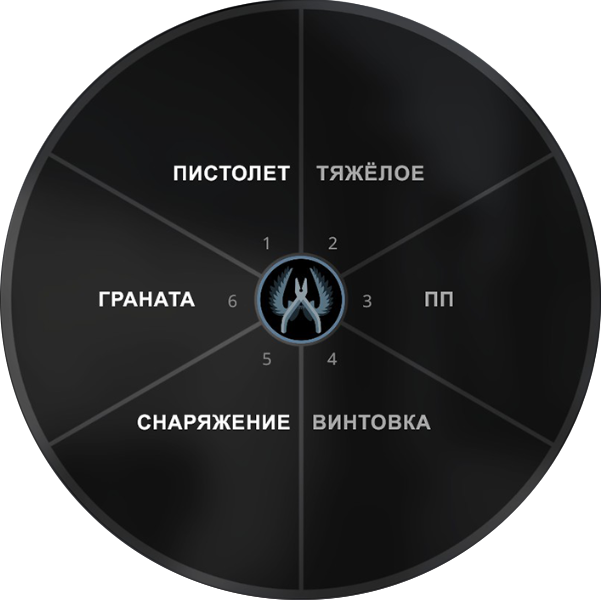
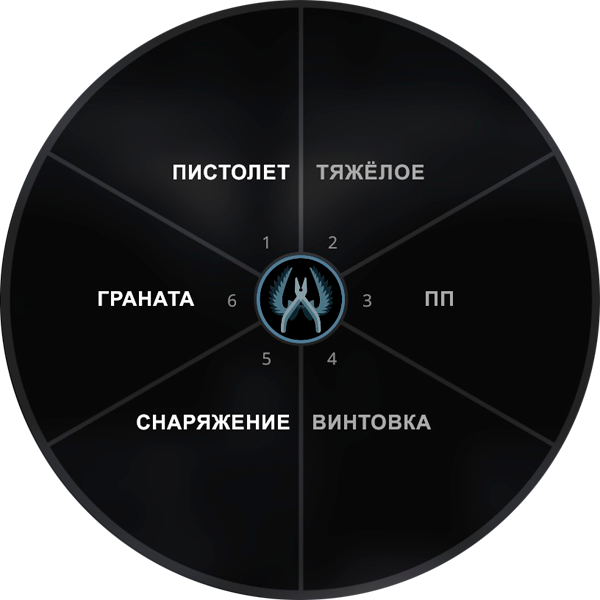
+wheel

diff --git a/Gun.html b/Gun.html
@@ -57,9 +57,9 @@
               <div id="all-layer" class="layer">
                 <img src="media/all.png" class="map" usemap="#image-map">
                 <map name="image-map">
-                  <area data-l="a1" coords="302, 0, 302, 254, 295, 254, 288, 256, 282, 259, 276, 262, 271, 266, 267, 271, 264, 276, 43, 149, 51, 138, 59, 127, 67, 116, 76, 105, 84, 96, 94, 87, 104, 77, 113, 68, 122, 60, 132, 53, 143, 46, 154, 39, 164, 33, 175, 28, 186, 23, 197, 19, 206, 15, 217, 12, 227, 9, 237, 7, 248, 5, 259, 3, 270, 2, 280, 1" shape="poly">
+                  <area data-l="a1" coords="41, 149, 261, 276, 265, 270, 270, 264, 276, 260, 283, 257, 291, 254, 301, 254, 301, 0, 282, 1, 264, 3, 247, 5, 229, 9, 212, 14, 185, 23, 167, 31, 153, 38, 137, 48, 123, 58, 110, 68, 99, 77, 87, 89, 76, 100, 66, 112, 56, 125, 49, 136" shape="poly">
                   <area data-l="a2" coords="301, 0, 301, 0, 317, 0, 330, 1, 341, 3, 353, 4, 362, 6, 372, 8, 381, 11, 390, 13, 403, 18, 415, 22, 430, 29, 444, 36, 454, 42, 464, 48, 473, 54, 481, 60, 490, 67, 498, 74, 506, 82, 513, 89, 521, 97, 528, 105, 534, 112, 541, 121, 547, 129, 553, 138, 557, 144, 560, 150, 340, 277, 335, 269, 328, 264, 320, 259, 313, 256, 306, 255, 300, 254, 302, 1" shape="poly">
-                  <area data-l="a3" coords="561, 150, 340, 277, 344, 284, 346, 291, 347, 298, 346, 305, 345, 311, 343, 316, 339, 322, 561, 449, 566, 437, 572, 425, 578, 412, 583, 399, 587, 387, 590, 375, 593, 361, 596, 348, 598, 335, 599, 321, 600, 308, 600, 293, 599, 279, 598, 264, 596, 250, 593, 235, 590, 222, 586, 209, 582, 197, 578, 185, 573, 173, 567, 162" shape="poly">
+                  <area data-l="a3" coords="340, 276, 559, 150, 570, 169, 577, 185, 583, 201, 589, 221, 593, 239, 596, 259, 598, 281, 599, 303, 598, 324, 595, 352, 590, 375, 584, 394, 576, 417, 567, 435, 559, 449, 340, 321, 345, 312, 346, 302, 346, 293, 345, 284" shape="poly">
                   <area data-l="a4" coords="301, 342, 308, 342, 315, 340, 322, 337, 328, 333, 333, 328, 337, 323, 340, 318, 560, 449, 552, 461, 548, 468, 542, 476, 536, 484, 530, 491, 523, 499, 516, 507, 509, 514, 501, 521, 494, 527, 486, 534, 478, 540, 470, 546, 462, 551, 454, 556, 444, 561, 435, 565, 425, 570, 415, 575, 405, 579, 395, 582, 383, 586, 371, 589, 361, 591, 350, 593, 338, 595, 326, 596, 318, 597, 308, 597, 301, 598" shape="poly">
                   <area data-l="a5" coords="264, 320, 267, 325, 272, 330, 278, 335, 284, 338, 291, 341, 297, 342, 302, 343, 302, 597, 292, 597, 280, 596, 267, 595, 255, 594, 241, 591, 227, 588, 215, 585, 201, 580, 189, 575, 179, 571, 169, 566, 157, 560, 145, 553, 135, 546, 125, 540, 116, 533, 107, 525, 99, 518, 91, 511, 83, 502, 76, 494, 70, 487, 64, 479, 57, 470, 52, 462, 47, 454, 43, 448" shape="poly">
                   <area data-l="a6" coords="43, 148, 263, 277, 260, 284, 257, 291, 257, 298, 258, 306, 260, 313, 262, 318, 263, 322, 43, 449, 38, 439, 32, 426, 26, 414, 22, 403, 18, 391, 14, 378, 10, 364, 8, 351, 6, 338, 4, 325, 3, 314, 3, 302, 3, 290, 3, 279, 4, 268, 6, 257, 7, 248, 8, 239, 10, 231, 12, 223, 14, 215, 17, 208, 20, 200, 23, 191, 26, 183, 29, 176, 33, 169, 37, 161, 41, 154" shape="poly">
@@ -68,85 +68,84 @@
 
               <!--  -->
               <div id="pistol-layer" class="layer" style="display: none;">
-                <img src="media/pistol.png" class="map" usemap="#pistol-map">
+                <img src="media/pistol_ct.png" class="map" usemap="#pistol-map">
                 <map name="pistol-map">
                   <area data-l="p0" shape="circle" coords="301, 300, 45" />
-                  <area data-l="p1" coords="302, 0, 302, 254, 295, 254, 288, 256, 282, 259, 276, 262, 271, 266, 267, 271, 264, 276, 43, 149, 51, 138, 59, 127, 67, 116, 76, 105, 84, 96, 94, 87, 104, 77, 113, 68, 122, 60, 132, 53, 143, 46, 154, 39, 164, 33, 175, 28, 186, 23, 197, 19, 206, 15, 217, 12, 227, 9, 237, 7, 248, 5, 259, 3, 270, 2, 280, 1" shape="poly">
-                  <area data-l="p2" coords="302, 1, 315, 1, 328, 2, 340, 3, 352, 5, 364, 7, 378, 11, 395, 16, 408, 20, 424, 27, 440, 35, 453, 43, 466, 52, 480, 63, 496, 75, 511, 88, 524, 102, 535, 115, 543, 125, 550, 135, 556, 144, 350, 267, 344, 259, 337, 252, 329, 246, 319, 243, 310, 240, 303, 240, 301, 240" shape="poly">
-                  <area data-l="p3" coords="557, 148, 562, 157, 568, 168, 574, 181, 580, 197, 587, 219, 591, 238, 594, 258, 596, 278, 597, 300, 597, 321, 595, 341, 592, 362, 588, 379, 581, 398, 575, 415, 568, 429, 563, 438, 558, 448, 351, 327, 356, 317, 358, 307, 359, 296, 357, 284, 353, 275, 351, 270" shape="poly">
-                  <area data-l="p4" coords="557, 450, 547, 467, 534, 485, 519, 501, 505, 516, 488, 532, 469, 546, 446, 560, 423, 572, 397, 582, 369, 589, 343, 595, 321, 597, 299, 598, 301, 356, 313, 355, 323, 352, 329, 347, 338, 342, 344, 336, 349, 329" shape="poly">
-                  <area data-l="p5" coords="292, 596, 265, 595, 237, 590, 205, 582, 171, 568, 143, 552, 114, 531, 86, 506, 64, 479, 45, 453, 250, 329, 256, 337, 263, 344, 273, 350, 281, 353, 288, 356, 297, 357" shape="poly">
-                  <area data-l="p6" coords="41, 445, 28, 422, 17, 392, 8, 358, 3, 322, 2, 284, 6, 245, 14, 214, 23, 191, 31, 172, 42, 150, 249, 271, 245, 281, 244, 292, 244, 306, 246, 314, 250, 325" shape="poly">
+                  <area data-l="p1" coords="41, 149, 261, 276, 265, 270, 270, 264, 276, 260, 283, 257, 291, 254, 301, 254, 301, 0, 282, 1, 264, 3, 247, 5, 229, 9, 212, 14, 185, 23, 167, 31, 153, 38, 137, 48, 123, 58, 110, 68, 99, 77, 87, 89, 76, 100, 66, 112, 56, 125, 49, 136" shape="poly">
+                  <area data-l="p2" coords="301, 0, 301, 0, 317, 0, 330, 1, 341, 3, 353, 4, 362, 6, 372, 8, 381, 11, 390, 13, 403, 18, 415, 22, 430, 29, 444, 36, 454, 42, 464, 48, 473, 54, 481, 60, 490, 67, 498, 74, 506, 82, 513, 89, 521, 97, 528, 105, 534, 112, 541, 121, 547, 129, 553, 138, 557, 144, 560, 150, 340, 277, 335, 269, 328, 264, 320, 259, 313, 256, 306, 255, 300, 254, 302, 1" shape="poly">
+                  <area data-l="p3" coords="340, 276, 559, 150, 570, 169, 577, 185, 583, 201, 589, 221, 593, 239, 596, 259, 598, 281, 599, 303, 598, 324, 595, 352, 590, 375, 584, 394, 576, 417, 567, 435, 559, 449, 340, 321, 345, 312, 346, 302, 346, 293, 345, 284" shape="poly">
+                  <area data-l="p4" coords="301, 342, 308, 342, 315, 340, 322, 337, 328, 333, 333, 328, 337, 323, 340, 318, 560, 449, 552, 461, 548, 468, 542, 476, 536, 484, 530, 491, 523, 499, 516, 507, 509, 514, 501, 521, 494, 527, 486, 534, 478, 540, 470, 546, 462, 551, 454, 556, 444, 561, 435, 565, 425, 570, 415, 575, 405, 579, 395, 582, 383, 586, 371, 589, 361, 591, 350, 593, 338, 595, 326, 596, 318, 597, 308, 597, 301, 598" shape="poly">
+                  <area data-l="p5" coords="264, 320, 267, 325, 272, 330, 278, 335, 284, 338, 291, 341, 297, 342, 302, 343, 302, 597, 292, 597, 280, 596, 267, 595, 255, 594, 241, 591, 227, 588, 215, 585, 201, 580, 189, 575, 179, 571, 169, 566, 157, 560, 145, 553, 135, 546, 125, 540, 116, 533, 107, 525, 99, 518, 91, 511, 83, 502, 76, 494, 70, 487, 64, 479, 57, 470, 52, 462, 47, 454, 43, 448" shape="poly">
+                  <area data-l="p6" coords="43, 148, 263, 277, 260, 284, 257, 291, 257, 298, 258, 306, 260, 313, 262, 318, 263, 322, 43, 449, 38, 439, 32, 426, 26, 414, 22, 403, 18, 391, 14, 378, 10, 364, 8, 351, 6, 338, 4, 325, 3, 314, 3, 302, 3, 290, 3, 279, 4, 268, 6, 257, 7, 248, 8, 239, 10, 231, 12, 223, 14, 215, 17, 208, 20, 200, 23, 191, 26, 183, 29, 176, 33, 169, 37, 161, 41, 154" shape="poly">
                 </map>
               </div>
 
               <!--  -->
               <div id="hard-layer" class="layer" style="display: none;">
-                <img src="media/hard.png" class="map" usemap="#hard-map">
+                <img src="media/shotgun_ct.png" class="map" usemap="#hard-map">
                 <map name="hard-map">
                   <area data-l="h0" shape="circle" coords="301, 300, 45" />
-                  <area data-l="h1" coords="43, 147, 52, 134, 60, 122, 69, 112, 77, 102, 86, 93, 94, 84, 104, 75, 114, 67, 124, 58, 135, 51, 146, 43, 157, 37, 168, 32, 180, 26, 191, 21, 202, 17, 214, 13, 227, 9, 242, 5, 255, 3, 269, 2, 279, 1, 291, 1, 299, 2, 299, 240, 294, 241, 288, 242, 280, 244, 273, 248, 266, 252, 261, 257, 256, 262, 252, 268" shape="poly">
-                  <area data-l="h2" coords="302, 1, 315, 1, 328, 2, 340, 3, 352, 5, 364, 7, 378, 11, 395, 16, 408, 20, 424, 27, 440, 35, 453, 43, 466, 52, 480, 63, 496, 75, 511, 88, 524, 102, 535, 115, 543, 125, 550, 135, 556, 144, 350, 267, 344, 259, 337, 252, 329, 246, 319, 243, 310, 240, 303, 240, 301, 240" shape="poly">
-                  <area data-l="h3" coords="557, 148, 562, 157, 568, 168, 574, 181, 580, 197, 587, 219, 591, 238, 594, 258, 596, 278, 597, 300, 597, 321, 595, 341, 592, 362, 588, 379, 581, 398, 575, 415, 568, 429, 563, 438, 558, 448, 351, 327, 356, 317, 358, 307, 359, 296, 357, 284, 353, 275, 351, 270" shape="poly">
-                  <area data-l="h4" coords="557, 450, 547, 467, 534, 485, 519, 501, 505, 516, 488, 532, 469, 546, 446, 560, 423, 572, 397, 582, 369, 589, 343, 595, 321, 597, 299, 598, 301, 356, 313, 355, 323, 352, 329, 347, 338, 342, 344, 336, 349, 329" shape="poly">
-                  <area data-l="h5" coords="292, 596, 265, 595, 237, 590, 205, 582, 171, 568, 143, 552, 114, 531, 86, 506, 64, 479, 45, 453, 250, 329, 256, 337, 263, 344, 273, 350, 281, 353, 288, 356, 297, 357" shape="poly">
-                  <area data-l="h6" coords="41, 445, 28, 422, 17, 392, 8, 358, 3, 322, 2, 284, 6, 245, 14, 214, 23, 191, 31, 172, 42, 150, 249, 271, 245, 281, 244, 292, 244, 306, 246, 314, 250, 325" shape="poly">
+                  <area data-l="h1" coords="41, 149, 261, 276, 265, 270, 270, 264, 276, 260, 283, 257, 291, 254, 301, 254, 301, 0, 282, 1, 264, 3, 247, 5, 229, 9, 212, 14, 185, 23, 167, 31, 153, 38, 137, 48, 123, 58, 110, 68, 99, 77, 87, 89, 76, 100, 66, 112, 56, 125, 49, 136" shape="poly">
+                  <area data-l="h2" coords="301, 0, 301, 0, 317, 0, 330, 1, 341, 3, 353, 4, 362, 6, 372, 8, 381, 11, 390, 13, 403, 18, 415, 22, 430, 29, 444, 36, 454, 42, 464, 48, 473, 54, 481, 60, 490, 67, 498, 74, 506, 82, 513, 89, 521, 97, 528, 105, 534, 112, 541, 121, 547, 129, 553, 138, 557, 144, 560, 150, 340, 277, 335, 269, 328, 264, 320, 259, 313, 256, 306, 255, 300, 254, 302, 1" shape="poly">
+                  <area data-l="h3" coords="340, 276, 559, 150, 570, 169, 577, 185, 583, 201, 589, 221, 593, 239, 596, 259, 598, 281, 599, 303, 598, 324, 595, 352, 590, 375, 584, 394, 576, 417, 567, 435, 559, 449, 340, 321, 345, 312, 346, 302, 346, 293, 345, 284" shape="poly">
+                  <area data-l="h4" coords="301, 342, 308, 342, 315, 340, 322, 337, 328, 333, 333, 328, 337, 323, 340, 318, 560, 449, 552, 461, 548, 468, 542, 476, 536, 484, 530, 491, 523, 499, 516, 507, 509, 514, 501, 521, 494, 527, 486, 534, 478, 540, 470, 546, 462, 551, 454, 556, 444, 561, 435, 565, 425, 570, 415, 575, 405, 579, 395, 582, 383, 586, 371, 589, 361, 591, 350, 593, 338, 595, 326, 596, 318, 597, 308, 597, 301, 598" shape="poly">
+                  <area data-l="h5" coords="264, 320, 267, 325, 272, 330, 278, 335, 284, 338, 291, 341, 297, 342, 302, 343, 302, 597, 292, 597, 280, 596, 267, 595, 255, 594, 241, 591, 227, 588, 215, 585, 201, 580, 189, 575, 179, 571, 169, 566, 157, 560, 145, 553, 135, 546, 125, 540, 116, 533, 107, 525, 99, 518, 91, 511, 83, 502, 76, 494, 70, 487, 64, 479, 57, 470, 52, 462, 47, 454, 43, 448" shape="poly">
+                  <area data-l="h6" coords="43, 148, 263, 277, 260, 284, 257, 291, 257, 298, 258, 306, 260, 313, 262, 318, 263, 322, 43, 449, 38, 439, 32, 426, 26, 414, 22, 403, 18, 391, 14, 378, 10, 364, 8, 351, 6, 338, 4, 325, 3, 314, 3, 302, 3, 290, 3, 279, 4, 268, 6, 257, 7, 248, 8, 239, 10, 231, 12, 223, 14, 215, 17, 208, 20, 200, 23, 191, 26, 183, 29, 176, 33, 169, 37, 161, 41, 154" shape="poly">
                 </map>
               </div>
               <!--  -->
 
               <div id="pp-layer" class="layer" style="display: none;">
-                <img src="media/pp.png" class="map" usemap="#pp-map">
+                <img src="media/pp_ct.png" class="map" usemap="#pp-map">
                 <map name="pp-map">
                   <area data-l="b0" shape="circle" coords="301, 300, 45" />
-                  <area data-l="b1" coords="43, 147, 52, 134, 60, 122, 69, 112, 77, 102, 86, 93, 94, 84, 104, 75, 114, 67, 124, 58, 135, 51, 146, 43, 157, 37, 168, 32, 180, 26, 191, 21, 202, 17, 214, 13, 227, 9, 242, 5, 255, 3, 269, 2, 279, 1, 291, 1, 299, 2, 299, 240, 294, 241, 288, 242, 280, 244, 273, 248, 266, 252, 261, 257, 256, 262, 252, 268" shape="poly">
-                  <area data-l="b2" coords="302, 1, 315, 1, 328, 2, 340, 3, 352, 5, 364, 7, 378, 11, 395, 16, 408, 20, 424, 27, 440, 35, 453, 43, 466, 52, 480, 63, 496, 75, 511, 88, 524, 102, 535, 115, 543, 125, 550, 135, 556, 144, 350, 267, 344, 259, 337, 252, 329, 246, 319, 243, 310, 240, 303, 240, 301, 240" shape="poly">
-                  <area data-l="b3" coords="557, 148, 562, 157, 568, 168, 574, 181, 580, 197, 587, 219, 591, 238, 594, 258, 596, 278, 597, 300, 597, 321, 595, 341, 592, 362, 588, 379, 581, 398, 575, 415, 568, 429, 563, 438, 558, 448, 351, 327, 356, 317, 358, 307, 359, 296, 357, 284, 353, 275, 351, 270" shape="poly">
-                  <area data-l="b4" coords="557, 450, 547, 467, 534, 485, 519, 501, 505, 516, 488, 532, 469, 546, 446, 560, 423, 572, 397, 582, 369, 589, 343, 595, 321, 597, 299, 598, 301, 356, 313, 355, 323, 352, 329, 347, 338, 342, 344, 336, 349, 329" shape="poly">
-                  <area data-l="b5" coords="292, 596, 265, 595, 237, 590, 205, 582, 171, 568, 143, 552, 114, 531, 86, 506, 64, 479, 45, 453, 250, 329, 256, 337, 263, 344, 273, 350, 281, 353, 288, 356, 297, 357" shape="poly">
-                  <area data-l="b6" coords="41, 445, 28, 422, 17, 392, 8, 358, 3, 322, 2, 284, 6, 245, 14, 214, 23, 191, 31, 172, 42, 150, 249, 271, 245, 281, 244, 292, 244, 306, 246, 314, 250, 325" shape="poly">
+                  <area data-l="b1" coords="41, 149, 261, 276, 265, 270, 270, 264, 276, 260, 283, 257, 291, 254, 301, 254, 301, 0, 282, 1, 264, 3, 247, 5, 229, 9, 212, 14, 185, 23, 167, 31, 153, 38, 137, 48, 123, 58, 110, 68, 99, 77, 87, 89, 76, 100, 66, 112, 56, 125, 49, 136" shape="poly">
+                  <area data-l="b2" coords="301, 0, 301, 0, 317, 0, 330, 1, 341, 3, 353, 4, 362, 6, 372, 8, 381, 11, 390, 13, 403, 18, 415, 22, 430, 29, 444, 36, 454, 42, 464, 48, 473, 54, 481, 60, 490, 67, 498, 74, 506, 82, 513, 89, 521, 97, 528, 105, 534, 112, 541, 121, 547, 129, 553, 138, 557, 144, 560, 150, 340, 277, 335, 269, 328, 264, 320, 259, 313, 256, 306, 255, 300, 254, 302, 1" shape="poly">
+                  <area data-l="b3" coords="340, 276, 559, 150, 570, 169, 577, 185, 583, 201, 589, 221, 593, 239, 596, 259, 598, 281, 599, 303, 598, 324, 595, 352, 590, 375, 584, 394, 576, 417, 567, 435, 559, 449, 340, 321, 345, 312, 346, 302, 346, 293, 345, 284" shape="poly">
+                  <area data-l="b4" coords="301, 342, 308, 342, 315, 340, 322, 337, 328, 333, 333, 328, 337, 323, 340, 318, 560, 449, 552, 461, 548, 468, 542, 476, 536, 484, 530, 491, 523, 499, 516, 507, 509, 514, 501, 521, 494, 527, 486, 534, 478, 540, 470, 546, 462, 551, 454, 556, 444, 561, 435, 565, 425, 570, 415, 575, 405, 579, 395, 582, 383, 586, 371, 589, 361, 591, 350, 593, 338, 595, 326, 596, 318, 597, 308, 597, 301, 598" shape="poly">
+                  <area data-l="b5" coords="264, 320, 267, 325, 272, 330, 278, 335, 284, 338, 291, 341, 297, 342, 302, 343, 302, 597, 292, 597, 280, 596, 267, 595, 255, 594, 241, 591, 227, 588, 215, 585, 201, 580, 189, 575, 179, 571, 169, 566, 157, 560, 145, 553, 135, 546, 125, 540, 116, 533, 107, 525, 99, 518, 91, 511, 83, 502, 76, 494, 70, 487, 64, 479, 57, 470, 52, 462, 47, 454, 43, 448" shape="poly">
+                  <area data-l="b6" coords="43, 148, 263, 277, 260, 284, 257, 291, 257, 298, 258, 306, 260, 313, 262, 318, 263, 322, 43, 449, 38, 439, 32, 426, 26, 414, 22, 403, 18, 391, 14, 378, 10, 364, 8, 351, 6, 338, 4, 325, 3, 314, 3, 302, 3, 290, 3, 279, 4, 268, 6, 257, 7, 248, 8, 239, 10, 231, 12, 223, 14, 215, 17, 208, 20, 200, 23, 191, 26, 183, 29, 176, 33, 169, 37, 161, 41, 154" shape="poly">
                 </map>
               </div>
               <!--  -->
 
               <div id="rifle-layer" class="layer" style="display: none;">
-                <img src="media/rifle.png" class="map" usemap="#rifle-map">
+                <img src="media/gun_ct.png" class="map" usemap="#rifle-map">
                 <map name="rifle-map">
                   <area data-l="r0" shape="circle" coords="301, 300, 45" />
-                  <area data-l="r1" coords="43, 147, 52, 134, 60, 122, 69, 112, 77, 102, 86, 93, 94, 84, 104, 75, 114, 67, 124, 58, 135, 51, 146, 43, 157, 37, 168, 32, 180, 26, 191, 21, 202, 17, 214, 13, 227, 9, 242, 5, 255, 3, 269, 2, 279, 1, 291, 1, 299, 2, 299, 240, 294, 241, 288, 242, 280, 244, 273, 248, 266, 252, 261, 257, 256, 262, 252, 268" shape="poly">
-                  <area data-l="r2" coords="302, 1, 315, 1, 328, 2, 340, 3, 352, 5, 364, 7, 378, 11, 395, 16, 408, 20, 424, 27, 440, 35, 453, 43, 466, 52, 480, 63, 496, 75, 511, 88, 524, 102, 535, 115, 543, 125, 550, 135, 556, 144, 350, 267, 344, 259, 337, 252, 329, 246, 319, 243, 310, 240, 303, 240, 301, 240" shape="poly">
-                  <area data-l="r3" coords="557, 148, 562, 157, 568, 168, 574, 181, 580, 197, 587, 219, 591, 238, 594, 258, 596, 278, 597, 300, 597, 321, 595, 341, 592, 362, 588, 379, 581, 398, 575, 415, 568, 429, 563, 438, 558, 448, 351, 327, 356, 317, 358, 307, 359, 296, 357, 284, 353, 275, 351, 270" shape="poly">
-                  <area data-l="r4" coords="557, 450, 547, 467, 534, 485, 519, 501, 505, 516, 488, 532, 469, 546, 446, 560, 423, 572, 397, 582, 369, 589, 343, 595, 321, 597, 299, 598, 301, 356, 313, 355, 323, 352, 329, 347, 338, 342, 344, 336, 349, 329" shape="poly">
-                  <area data-l="r5" coords="292, 596, 265, 595, 237, 590, 205, 582, 171, 568, 143, 552, 114, 531, 86, 506, 64, 479, 45, 453, 250, 329, 256, 337, 263, 344, 273, 350, 281, 353, 288, 356, 297, 357" shape="poly">
-                  <area data-l="r6" coords="41, 445, 28, 422, 17, 392, 8, 358, 3, 322, 2, 284, 6, 245, 14, 214, 23, 191, 31, 172, 42, 150, 249, 271, 245, 281, 244, 292, 244, 306, 246, 314, 250, 325" shape="poly">
+                  <area data-l="r1" coords="41, 149, 261, 276, 265, 270, 270, 264, 276, 260, 283, 257, 291, 254, 301, 254, 301, 0, 282, 1, 264, 3, 247, 5, 229, 9, 212, 14, 185, 23, 167, 31, 153, 38, 137, 48, 123, 58, 110, 68, 99, 77, 87, 89, 76, 100, 66, 112, 56, 125, 49, 136" shape="poly">
+                  <area data-l="r2" coords="301, 0, 301, 0, 317, 0, 330, 1, 341, 3, 353, 4, 362, 6, 372, 8, 381, 11, 390, 13, 403, 18, 415, 22, 430, 29, 444, 36, 454, 42, 464, 48, 473, 54, 481, 60, 490, 67, 498, 74, 506, 82, 513, 89, 521, 97, 528, 105, 534, 112, 541, 121, 547, 129, 553, 138, 557, 144, 560, 150, 340, 277, 335, 269, 328, 264, 320, 259, 313, 256, 306, 255, 300, 254, 302, 1" shape="poly">
+                  <area data-l="r3" coords="340, 276, 559, 150, 570, 169, 577, 185, 583, 201, 589, 221, 593, 239, 596, 259, 598, 281, 599, 303, 598, 324, 595, 352, 590, 375, 584, 394, 576, 417, 567, 435, 559, 449, 340, 321, 345, 312, 346, 302, 346, 293, 345, 284" shape="poly">
+                  <area data-l="r4" coords="301, 342, 308, 342, 315, 340, 322, 337, 328, 333, 333, 328, 337, 323, 340, 318, 560, 449, 552, 461, 548, 468, 542, 476, 536, 484, 530, 491, 523, 499, 516, 507, 509, 514, 501, 521, 494, 527, 486, 534, 478, 540, 470, 546, 462, 551, 454, 556, 444, 561, 435, 565, 425, 570, 415, 575, 405, 579, 395, 582, 383, 586, 371, 589, 361, 591, 350, 593, 338, 595, 326, 596, 318, 597, 308, 597, 301, 598" shape="poly">
+                  <area data-l="r5" coords="264, 320, 267, 325, 272, 330, 278, 335, 284, 338, 291, 341, 297, 342, 302, 343, 302, 597, 292, 597, 280, 596, 267, 595, 255, 594, 241, 591, 227, 588, 215, 585, 201, 580, 189, 575, 179, 571, 169, 566, 157, 560, 145, 553, 135, 546, 125, 540, 116, 533, 107, 525, 99, 518, 91, 511, 83, 502, 76, 494, 70, 487, 64, 479, 57, 470, 52, 462, 47, 454, 43, 448" shape="poly">
+                  <area data-l="r6" coords="43, 148, 263, 277, 260, 284, 257, 291, 257, 298, 258, 306, 260, 313, 262, 318, 263, 322, 43, 449, 38, 439, 32, 426, 26, 414, 22, 403, 18, 391, 14, 378, 10, 364, 8, 351, 6, 338, 4, 325, 3, 314, 3, 302, 3, 290, 3, 279, 4, 268, 6, 257, 7, 248, 8, 239, 10, 231, 12, 223, 14, 215, 17, 208, 20, 200, 23, 191, 26, 183, 29, 176, 33, 169, 37, 161, 41, 154" shape="poly">
                 </map>
               </div>
               <!--  -->
 
               <div id="tools-layer" class="layer" style="display: none;">
-                <img src="media/tools.png" class="map" usemap="#tools-map">
+                <img src="media/armor_ct.png" class="map" usemap="#tools-map">
                 <map name="tools-map">
                   <area data-l="t0" shape="circle" coords="301, 300, 45" />
-                  <area data-l="t1" coords="43, 147, 52, 134, 60, 122, 69, 112, 77, 102, 86, 93, 94, 84, 104, 75, 114, 67, 124, 58, 135, 51, 146, 43, 157, 37, 168, 32, 180, 26, 191, 21, 202, 17, 214, 13, 227, 9, 242, 5, 255, 3, 269, 2, 279, 1, 291, 1, 299, 2, 299, 240, 294, 241, 288, 242, 280, 244, 273, 248, 266, 252, 261, 257, 256, 262, 252, 268" shape="poly">
-                  <area data-l="t2" coords="302, 1, 315, 1, 328, 2, 340, 3, 352, 5, 364, 7, 378, 11, 395, 16, 408, 20, 424, 27, 440, 35, 453, 43, 466, 52, 480, 63, 496, 75, 511, 88, 524, 102, 535, 115, 543, 125, 550, 135, 556, 144, 350, 267, 344, 259, 337, 252, 329, 246, 319, 243, 310, 240, 303, 240, 301, 240" shape="poly">
-                  <area data-l="t3" coords="557, 148, 562, 157, 568, 168, 574, 181, 580, 197, 587, 219, 591, 238, 594, 258, 596, 278, 597, 300, 597, 321, 595, 341, 592, 362, 588, 379, 581, 398, 575, 415, 568, 429, 563, 438, 558, 448, 351, 327, 356, 317, 358, 307, 359, 296, 357, 284, 353, 275, 351, 270" shape="poly">
-                  <area data-l="t4" coords="557, 450, 547, 467, 534, 485, 519, 501, 505, 516, 488, 532, 469, 546, 446, 560, 423, 572, 397, 582, 369, 589, 343, 595, 321, 597, 299, 598, 301, 356, 313, 355, 323, 352, 329, 347, 338, 342, 344, 336, 349, 329" shape="poly">
-                  <area data-l="t5" coords="292, 596, 265, 595, 237, 590, 205, 582, 171, 568, 143, 552, 114, 531, 86, 506, 64, 479, 45, 453, 250, 329, 256, 337, 263, 344, 273, 350, 281, 353, 288, 356, 297, 357" shape="poly">
-                  <area data-l="t6" coords="41, 445, 28, 422, 17, 392, 8, 358, 3, 322, 2, 284, 6, 245, 14, 214, 23, 191, 31, 172, 42, 150, 249, 271, 245, 281, 244, 292, 244, 306, 246, 314, 250, 325" shape="poly">
+                  <area data-l="t1" coords="87, 88, 267, 268, 274, 261, 282, 257, 291, 255, 300, 255, 310, 256, 319, 259, 326, 263, 332, 267, 511, 88, 494, 73, 475, 57, 457, 45, 441, 36, 424, 27, 405, 20, 386, 14, 367, 8, 348, 5, 335, 3, 319, 1, 298, 1, 282, 2, 262, 3, 246, 5, 226, 9, 208, 14, 192, 20, 174, 27, 160, 34, 148, 41, 135, 49, 123, 58, 113, 65, 102, 75" shape="poly">
+                  <area data-l="t3" coords="340, 276, 559, 150, 570, 169, 577, 185, 583, 201, 589, 221, 593, 239, 596, 259, 598, 281, 599, 303, 598, 324, 595, 352, 590, 375, 584, 394, 576, 417, 567, 435, 559, 449, 340, 321, 345, 312, 346, 302, 346, 293, 345, 284" shape="poly">
+                  <area data-l="t4" coords="301, 342, 308, 342, 315, 340, 322, 337, 328, 333, 333, 328, 337, 323, 340, 318, 560, 449, 552, 461, 548, 468, 542, 476, 536, 484, 530, 491, 523, 499, 516, 507, 509, 514, 501, 521, 494, 527, 486, 534, 478, 540, 470, 546, 462, 551, 454, 556, 444, 561, 435, 565, 425, 570, 415, 575, 405, 579, 395, 582, 383, 586, 371, 589, 361, 591, 350, 593, 338, 595, 326, 596, 318, 597, 308, 597, 301, 598" shape="poly">
+                  <area data-l="t5" coords="264, 320, 267, 325, 272, 330, 278, 335, 284, 338, 291, 341, 297, 342, 302, 343, 302, 597, 292, 597, 280, 596, 267, 595, 255, 594, 241, 591, 227, 588, 215, 585, 201, 580, 189, 575, 179, 571, 169, 566, 157, 560, 145, 553, 135, 546, 125, 540, 116, 533, 107, 525, 99, 518, 91, 511, 83, 502, 76, 494, 70, 487, 64, 479, 57, 470, 52, 462, 47, 454, 43, 448" shape="poly">
+                  <area data-l="t6" coords="43, 148, 263, 277, 260, 284, 257, 291, 257, 298, 258, 306, 260, 313, 262, 318, 263, 322, 43, 449, 38, 439, 32, 426, 26, 414, 22, 403, 18, 391, 14, 378, 10, 364, 8, 351, 6, 338, 4, 325, 3, 314, 3, 302, 3, 290, 3, 279, 4, 268, 6, 257, 7, 248, 8, 239, 10, 231, 12, 223, 14, 215, 17, 208, 20, 200, 23, 191, 26, 183, 29, 176, 33, 169, 37, 161, 41, 154" shape="poly">
                 </map>
               </div>
               <!--  -->
 
               <div id="granata-layer" class="layer" style="display: none;">
-                <img src="media/granata.png" class="map" usemap="#granata-map">
+                <img src="media/granate_ct.png" class="map" usemap="#granata-map">
                 <map name="granata-map">
                   <area data-l="g0" shape="circle" coords="301, 300, 45" />
-                  <area data-l="g1" coords="43, 147, 52, 134, 60, 122, 69, 112, 77, 102, 86, 93, 94, 84, 104, 75, 114, 67, 124, 58, 135, 51, 146, 43, 157, 37, 168, 32, 180, 26, 191, 21, 202, 17, 214, 13, 227, 9, 242, 5, 255, 3, 269, 2, 279, 1, 291, 1, 299, 2, 299, 240, 294, 241, 288, 242, 280, 244, 273, 248, 266, 252, 261, 257, 256, 262, 252, 268" shape="poly">
-                  <area data-l="g2" coords="302, 1, 315, 1, 328, 2, 340, 3, 352, 5, 364, 7, 378, 11, 395, 16, 408, 20, 424, 27, 440, 35, 453, 43, 466, 52, 480, 63, 496, 75, 511, 88, 524, 102, 535, 115, 543, 125, 550, 135, 556, 144, 350, 267, 344, 259, 337, 252, 329, 246, 319, 243, 310, 240, 303, 240, 301, 240" shape="poly">
-                  <area data-l="g3" coords="557, 148, 562, 157, 568, 168, 574, 181, 580, 197, 587, 219, 591, 238, 594, 258, 596, 278, 597, 300, 597, 321, 595, 341, 592, 362, 588, 379, 581, 398, 575, 415, 568, 429, 563, 438, 558, 448, 351, 327, 356, 317, 358, 307, 359, 296, 357, 284, 353, 275, 351, 270" shape="poly">
-                  <area data-l="g4" coords="557, 450, 547, 467, 534, 485, 519, 501, 505, 516, 488, 532, 469, 546, 446, 560, 423, 572, 397, 582, 369, 589, 343, 595, 321, 597, 299, 598, 301, 356, 313, 355, 323, 352, 329, 347, 338, 342, 344, 336, 349, 329" shape="poly">
-                  <area data-l="g5" coords="292, 596, 265, 595, 237, 590, 205, 582, 171, 568, 143, 552, 114, 531, 86, 506, 64, 479, 45, 453, 250, 329, 256, 337, 263, 344, 273, 350, 281, 353, 288, 356, 297, 357" shape="poly">
-                  <area data-l="g6" coords="41, 445, 28, 422, 17, 392, 8, 358, 3, 322, 2, 284, 6, 245, 14, 214, 23, 191, 31, 172, 42, 150, 249, 271, 245, 281, 244, 292, 244, 306, 246, 314, 250, 325" shape="poly">
+                  <area data-l="g1" coords="41, 149, 261, 276, 265, 270, 270, 264, 276, 260, 283, 257, 291, 254, 301, 254, 301, 0, 282, 1, 264, 3, 247, 5, 229, 9, 212, 14, 185, 23, 167, 31, 153, 38, 137, 48, 123, 58, 110, 68, 99, 77, 87, 89, 76, 100, 66, 112, 56, 125, 49, 136" shape="poly">
+                  <area data-l="g2" coords="301, 0, 301, 0, 317, 0, 330, 1, 341, 3, 353, 4, 362, 6, 372, 8, 381, 11, 390, 13, 403, 18, 415, 22, 430, 29, 444, 36, 454, 42, 464, 48, 473, 54, 481, 60, 490, 67, 498, 74, 506, 82, 513, 89, 521, 97, 528, 105, 534, 112, 541, 121, 547, 129, 553, 138, 557, 144, 560, 150, 340, 277, 335, 269, 328, 264, 320, 259, 313, 256, 306, 255, 300, 254, 302, 1" shape="poly">
+                  <area data-l="g3" coords="340, 276, 559, 150, 570, 169, 577, 185, 583, 201, 589, 221, 593, 239, 596, 259, 598, 281, 599, 303, 598, 324, 595, 352, 590, 375, 584, 394, 576, 417, 567, 435, 559, 449, 340, 321, 345, 312, 346, 302, 346, 293, 345, 284" shape="poly">
+                  <area data-l="g4" coords="301, 342, 308, 342, 315, 340, 322, 337, 328, 333, 333, 328, 337, 323, 340, 318, 560, 449, 552, 461, 548, 468, 542, 476, 536, 484, 530, 491, 523, 499, 516, 507, 509, 514, 501, 521, 494, 527, 486, 534, 478, 540, 470, 546, 462, 551, 454, 556, 444, 561, 435, 565, 425, 570, 415, 575, 405, 579, 395, 582, 383, 586, 371, 589, 361, 591, 350, 593, 338, 595, 326, 596, 318, 597, 308, 597, 301, 598" shape="poly">
+                  <area data-l="g5" coords="264, 320, 267, 325, 272, 330, 278, 335, 284, 338, 291, 341, 297, 342, 302, 343, 302, 597, 292, 597, 280, 596, 267, 595, 255, 594, 241, 591, 227, 588, 215, 585, 201, 580, 189, 575, 179, 571, 169, 566, 157, 560, 145, 553, 135, 546, 125, 540, 116, 533, 107, 525, 99, 518, 91, 511, 83, 502, 76, 494, 70, 487, 64, 479, 57, 470, 52, 462, 47, 454, 43, 448" shape="poly">
+                  <area data-l="g6" coords="43, 148, 263, 277, 260, 284, 257, 291, 257, 298, 258, 306, 260, 313, 262, 318, 263, 322, 43, 449, 38, 439, 32, 426, 26, 414, 22, 403, 18, 391, 14, 378, 10, 364, 8, 351, 6, 338, 4, 325, 3, 314, 3, 302, 3, 290, 3, 279, 4, 268, 6, 257, 7, 248, 8, 239, 10, 231, 12, 223, 14, 215, 17, 208, 20, 200, 23, 191, 26, 183, 29, 176, 33, 169, 37, 161, 41, 154" shape="poly">
                 </map>
               </div>
               <!--  -->
